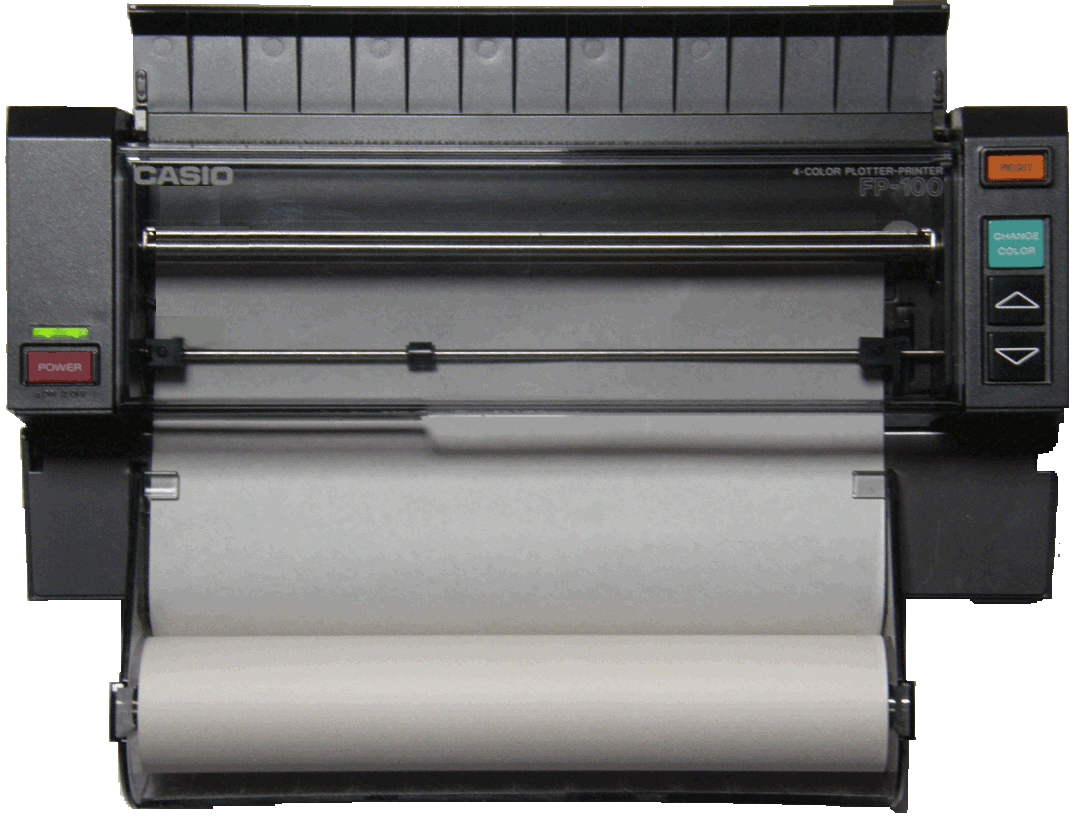
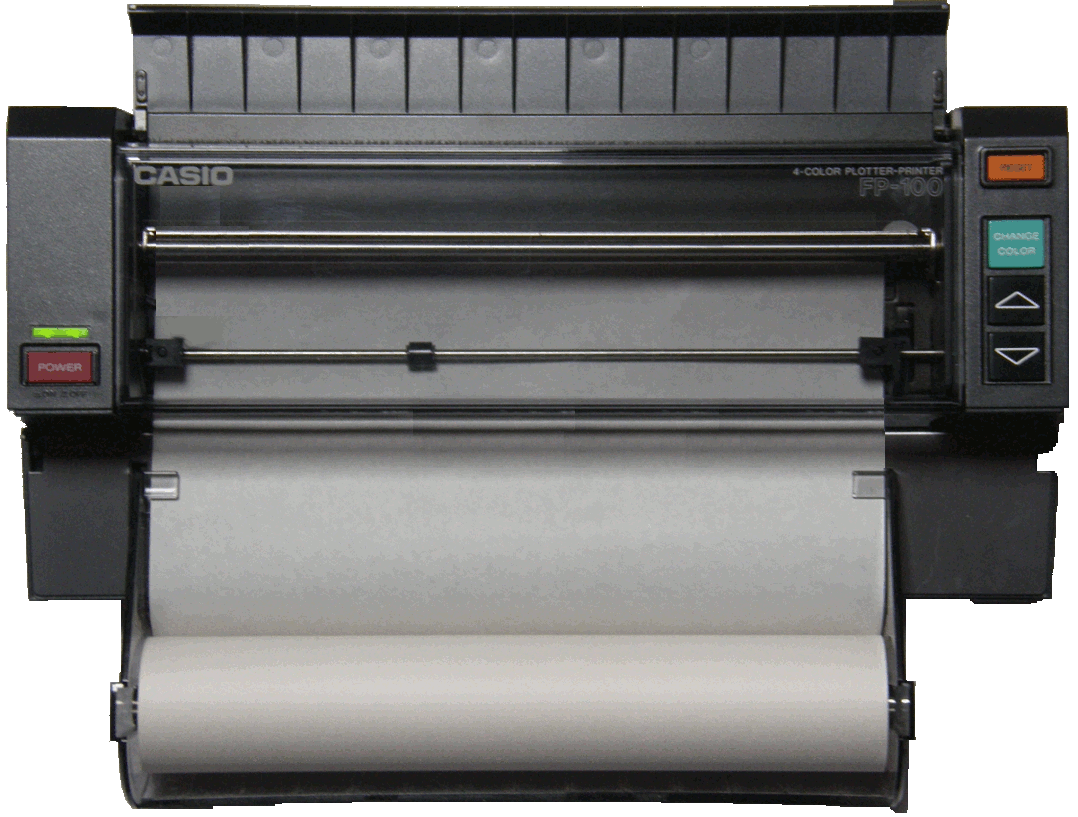
update

Changed region(s): [[0.3673, 0.4896, 0.8265, 0.5814]]

diff --git a/src/machine/casio/fp100.cpp b/src/machine/casio/fp100.cpp
@@ -27,12 +27,12 @@ Cfp100::Cfp100(CPObject *parent):Cce515p(this) {
 
     delete pKEYB; pKEYB		= new Ckeyb(this,"x710.map");
 
-    setDXmm(302);//Pc_DX_mm = 256;
-    setDYmm(120);//Pc_DY_mm = 185;
-    setDZmm(36);//Pc_DZ_mm = 42;
+    setDXmm(302);
+    setDYmm(120);
+    setDZmm(36);
 
-    setDX(1078);//Pc_DX	= 895;
-    setDY(817);//Pc_DY	= 615;
+    setDX(1078);
+    setDY(817);
 
 
 
@@ -166,10 +166,12 @@ void Cfp100::ComputeKey(void)
 
 bool Cfp100::UpdateFinalImage(void) {
 
-    Cce515p::UpdateFinalImage();
+//    Cce515p::UpdateFinalImage();
 
     QPainter painter;
     painter.begin(FinalImage);
+
+    painter.drawImage(QPoint(0,0),*BackgroundImage);
 
     float ratio = ( (float) paperWidget->width() ) / ( paperWidget->bufferImage->width() - paperWidget->getOffset().x() );
 
@@ -182,7 +184,7 @@ bool Cfp100::UpdateFinalImage(void) {
     painter.drawImage(PaperPos(),
                       paperWidget->bufferImage->copy(source).scaled(PaperPos().size(),Qt::IgnoreAspectRatio, Qt::SmoothTransformation )
                       );
-
+#if 1
     painter.setOpacity(0.5);
     painter.fillRect(PaperPos(),Qt::black);
     painter.setOpacity(1);
@@ -192,8 +194,10 @@ bool Cfp100::UpdateFinalImage(void) {
     int offset = (lastX ) * ratio /( mainwindow->zoom/100);
     painter.drawImage(152+offset,178,*head);       // Draw head
     painter.drawImage(793 - offset,214,*cable);    // Draw cable
-
+#endif
     painter.end();
+
+    emit updatedPObject(this);
 
     return true;
 }

diff --git a/src/machine/ce515p.cpp b/src/machine/ce515p.cpp
@@ -11,7 +11,7 @@
 #include "Inter.h"
 #include "dialoganalog.h"
 
-
+extern bool soundEnabled;
 
 #define NO_MOVE	0
 #define RI_MOVE	1
@@ -330,18 +330,20 @@ void Cce515p::Print(CMove point)
         if (point.penDown != old_penDown) {
 #ifndef NO_SOUND
 //            clac->play();
-            if (getfrequency()>0) {
-                fillSoundBuffer(0xFF);
-                fillSoundBuffer(0x00);
-            }
-            else {
-//                int ps = m_audioOutput->periodSize();
-                mainwindow->audioMutex.lock();
-                QByteArray buff;
-                buff.append(0xFF);
-                buff.append((char)0);
-                m_output->write(buff.constData(),2);
-                mainwindow->audioMutex.unlock();
+            if (soundEnabled) {
+                if (getfrequency()>0) {
+                    fillSoundBuffer(0xFF);
+                    fillSoundBuffer(0x00);
+                }
+                else {
+                    //                int ps = m_audioOutput->periodSize();
+                    mainwindow->audioMutex.lock();
+                    QByteArray buff;
+                    buff.append(0xFF);
+                    buff.append((char)0);
+                    m_output->write(buff.constData(),2);
+                    mainwindow->audioMutex.unlock();
+                }
             }
 #endif
             old_penDown = point.penDown;

diff --git a/src/machine/casio/pb2000.cpp b/src/machine/casio/pb2000.cpp
@@ -75,12 +75,14 @@ bool Cpb2000::UpdateFinalImage(void) {
     painter.begin(FinalImage);
 
     // POWER SWITCH
-    painter.drawImage(0,29,BackgroundImageBackup->copy(0,29,10,95).mirrored(false,!off));
+    painter.drawImage(0,29*internalImageRatio,
+                      BackgroundImageBackup->copy(0,29*internalImageRatio,
+                                                  10*internalImageRatio,95*internalImageRatio).mirrored(false,!off));
 
     //TODO: Manage keyboard overlay
     // DRAW overlay depending of inserted module
-    painter.drawImage(55,218,overlay->copy(0,0,432,6));
-    painter.drawImage(55,251,overlay->copy(0,6,432,6));
+    painter.drawImage(QPoint(55,218)*internalImageRatio,overlay->copy(0,0,432,6).scaled(QSize(432,6)*internalImageRatio));
+    painter.drawImage(QPoint(55,251)*internalImageRatio,overlay->copy(0,6,432,6).scaled(QSize(432,6)*internalImageRatio));
     painter.end();
 
     return true;

diff --git a/src/machine/casio/pb1000.cpp b/src/machine/casio/pb1000.cpp
@@ -95,7 +95,9 @@ bool Cpb1000::UpdateFinalImage(void) {
     painter.begin(FinalImage);
 
     // POWER SWITCH
-    painter.drawImage(38,388,BackgroundImageBackup->copy(38,388,56,23).mirrored(off,false));
+    painter.drawImage(38*internalImageRatio,388*internalImageRatio,
+                      BackgroundImageBackup->copy(38*internalImageRatio,388*internalImageRatio,
+                                                  56*internalImageRatio,23*internalImageRatio).mirrored(off,false));
 
     painter.end();
 
